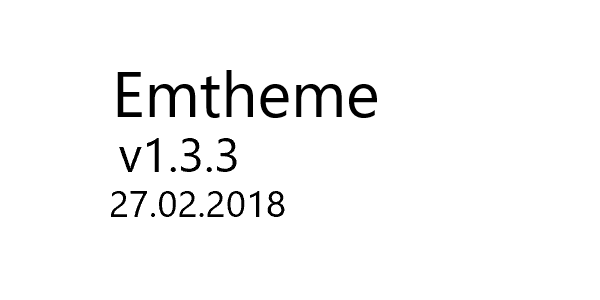
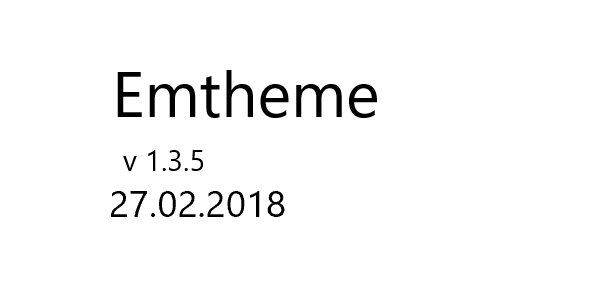
fixed sitemap

Changed region(s): [[0.18, 0.45, 0.39, 0.57]]

diff --git a/style.css b/style.css
@@ -1,6 +1,6 @@
 /*
 Theme Name: EM Theme
-Version: 1.3.4
+Version: 1.3.5
 Author: Arild, EM
 Description: For EM
 Text Domain: Emtheme

diff --git a/functions.php b/functions.php
@@ -45,7 +45,7 @@ final class Emtheme_function {
             return;
         $this->public_wp_hooks();
 
-        if ( (! current_user_can('edit')) || (! is_admin()) )
+        if (! is_admin())
             return;
         $this->wp_hooks();
     }
